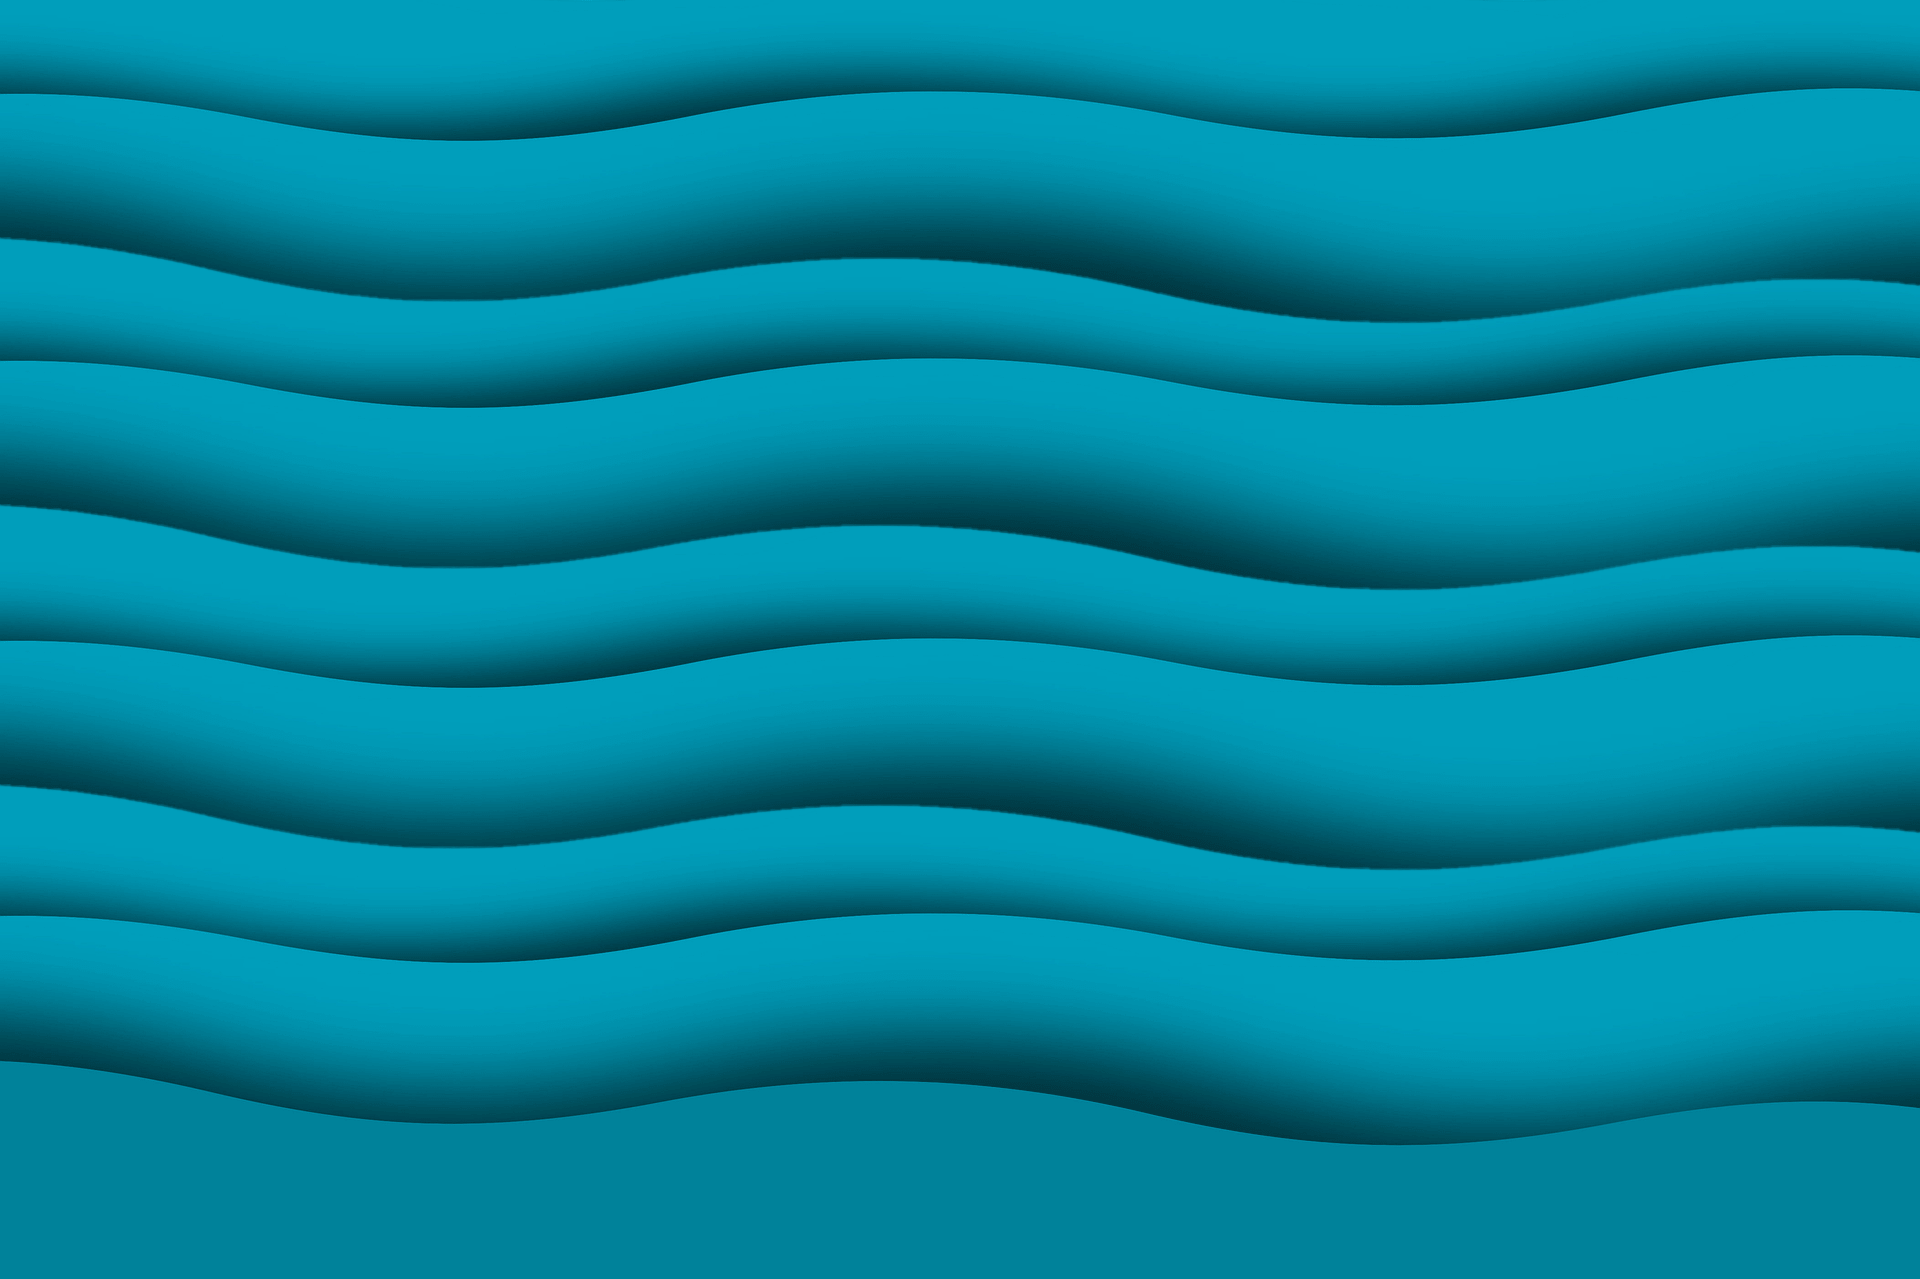
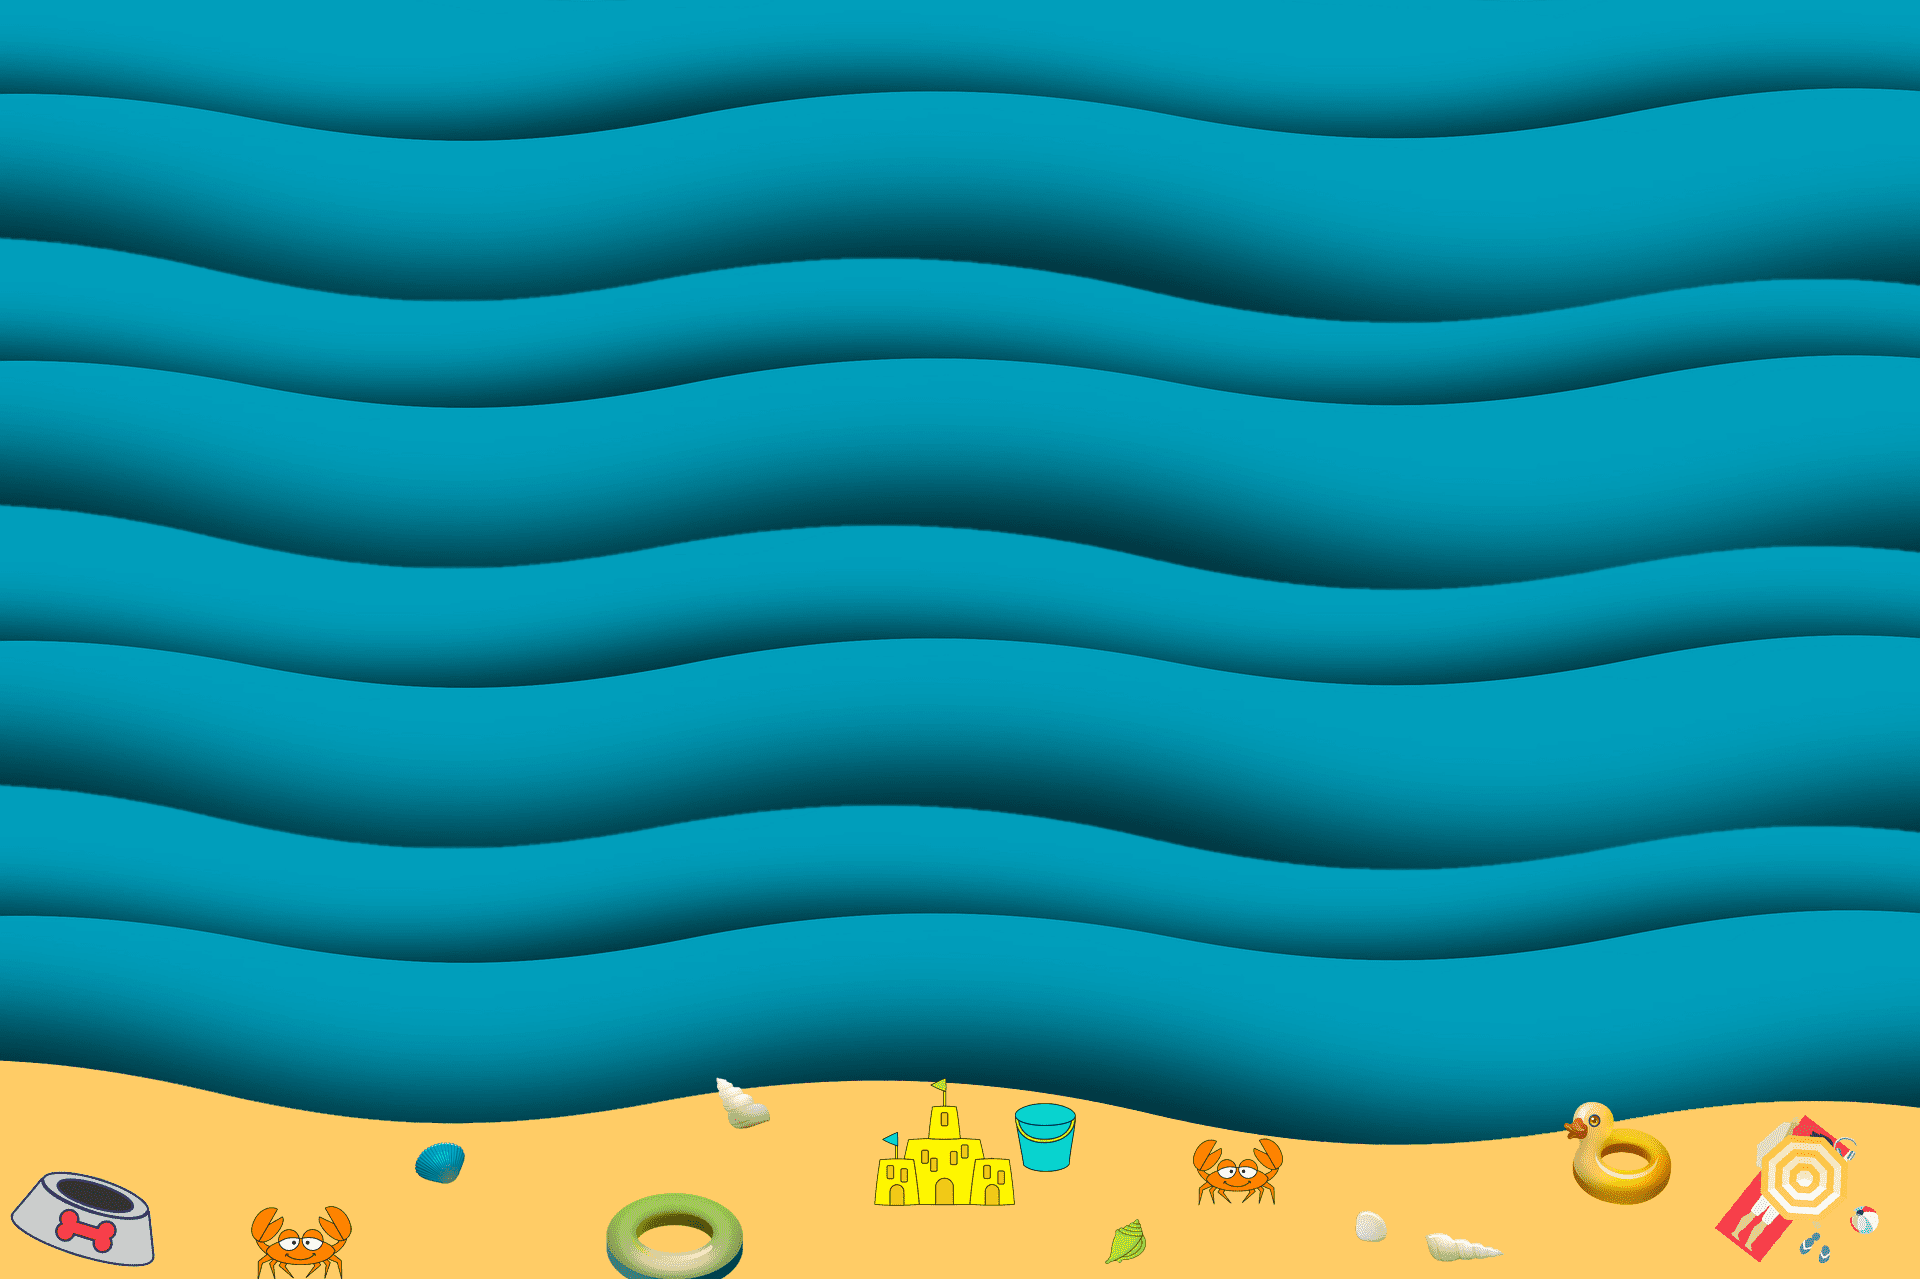
changed bg, bigSeal img and created an area just for seals

Changed region(s): [[0.0, 0.8233, 1.0, 1.0]]

diff --git a/classes/game.js b/classes/game.js
@@ -7,12 +7,14 @@ class Game {
     this.bg = new Image();
     this.bg.src = "./images/ocean.png";
     this.dog = new Dog();
-    this.stick = new Stick();
+    this.minY = 80;
+    this.maxY = 325;
+    /*this.stick = new Stick();
     this.seal = new Seal();
-    //this.bigSeal = new BigSeal ();
+    this.bigSeal = new BigSeal();*/
     this.sticksArray = [];
     this.sealsArray = [];
-    //this.bigSealsArray = [];
+    this.bigSealsArray = [];
     this.isGameOn = true;    
   }
 
@@ -25,39 +27,33 @@ class Game {
 */
 // sticks
 createSticks = () => {
-    if (!this.sticksArray.length || this.sticksArray[this.sticksArray.length -1].x < canvas.width / 1.5) {
-        let randomStickY = Math.floor(Math.random() * (canvas.height -40));
+    if (!this.sticksArray.length || this.sticksArray[this.sticksArray.length -1].x < canvas.width / 1.2) {
+        let randomStickY = Math.floor(Math.random() * (canvas.height -120));
         let stick = new Stick (randomStickY);
         this.sticksArray.push(stick);
     };
 }
 
-/* 3. creating the array of seals for sealAppearance
-=> there should be more than 2 or 3 seals in the canvas at the same time
-=> next should start when the previous one has arrived at 1/4 of the canvas
-=> appearence definitely needs to be randomly in the height
-=> to make the game more difficult for the player the seals should be bigger and appear faster/more often?
-*/
+// 3. creating the array of seals 
 
-// seals
 createSeals = () => {
     if (!this.sealsArray.length || this.sealsArray[this.sealsArray.length -1].x < canvas.width / 1.4) {
-    let randomSealY = Math.floor(Math.random() * (canvas.height -60))
+    let randomSealY = Math.floor(Math.random() * (this.maxY - this.minY + 1) + this.minY);
     let seal = new Seal (randomSealY);
     this.sealsArray.push(seal);
     }
 };
 
-/*
+
 // creating the bigSeals
 createBigSeals = () => {
-    if (!this.bigSealsArray.length || this.bigSealsArray[this.bigSealsArray.lenght -1].x < canvas.width 1.6) {
-        let randomBigSealY = Math.floor(Math.random() * (canvas.height -80))
-        let bigSeal = new BigSeal (randomBigSealY);
-        this.bigSealsArray.push(bigSeal);
+    if (!this.bigSealsArray.length || this.bigSealsArray[this.bigSealsArray.length -1].x < canvas.width / 4) {
+    //let randomBigSealY = Math.floor(Math.random())
+    let bigSeal = new BigSeal //(randomBigSealY);
+    this.bigSealsArray.push(bigSeal);
     }
 }
-*/
+
 // 4. game loop fct
 
   gameLoop = () => {
@@ -69,6 +65,7 @@ createBigSeals = () => {
 => elements: dog, sticks, seals
 */
     this.dog.dogWaterMovementDeepSea();
+
     this.createSticks();
     this.sticksArray.forEach(eachStick => {
         eachStick.stickMovement()
@@ -79,12 +76,10 @@ createBigSeals = () => {
         eachSeal.sealMovement()
     });
 
-    /*
     this.createBigSeals();
     this.bigSealsArray.forEach(eachBigSeal => {
         eachBigSeal.bigSealMovement()
     });
-    */
     
 //=> other things to consider: 
 /*- here to implement the dogStickCollision to get the stickScore*/
@@ -114,18 +109,23 @@ createBigSeals = () => {
         canvas.style.display = "none";
         gameoverScreen.style.display = "flex";
         stickScore.style.display = "flex"; //change this to "none"
-        //finalScore.style.display = "flex";
+        finalScore.style.display = "flex"; //change this fo "flex"
         dogLife.style.display = "none";
         }
     });
 
-/*
+// 1 collision between dog & bigSeal to end the game
     this.bigSealsArray.forEach((eachBigSeal, index) => {
         if (this.dog.dogBigSealCollision(eachBigSeal)) {
         this.bigSealsArray.splice (index, 1);
+        this.isGameOn = false;
+        canvas.style.display = "none";
+        gameoverScreen.style.display = "flex";
+        stickScore.style.display = "flex"; //change this to "none"
+        finalScore.style.display = "flex"; //change this fo "flex"
+        dogLife.style.display = "none";
         }
-    }
-    */
+    });
 
 /*
 - removing canvas when game stopped
@@ -135,15 +135,17 @@ createBigSeals = () => {
     => bg img, dog, sticks, seals & score (sticks and seals)?
    */
     ctx.drawImage(this.bg, 0, 0, canvas.width, canvas.height);
+     
+    this.sealsArray.forEach(eachSeal => {
+        eachSeal.drawSeal()
+    });
 
     this.sticksArray.forEach(eachStick => {
         eachStick.drawStick()
     });
     
-    this.seal.drawSeal();
-
-    this.sealsArray.forEach(eachSeal => {
-        eachSeal.drawSeal()
+    this.bigSealsArray.forEach(eachBigSeal => {
+        eachBigSeal.drawBigSeal()
     });
 
     this.dog.drawDog();

diff --git a/classes/dog.js b/classes/dog.js
@@ -7,7 +7,7 @@ class Dog {
     this.width = 80;
     this.x = 0;
     this.y = canvas.height / 2 - this.height / 2;
-    this.speedY = 1;
+    //this.speedY = 1;
     this.image = new Image();
     this.image.src = "./images/dog.png";
   }
@@ -57,7 +57,7 @@ dogSealCollision = (seal) => {
 }
 
 // dogBigSealCollision () {}
-/*
+
 dogBigSealCollision = (bigSeal) => {
   if (this.x < bigSeal.x + bigSeal.width && 
     this.x + this.width > bigSeal.x && 
@@ -65,8 +65,9 @@ dogBigSealCollision = (bigSeal) => {
     this.y + this.height > bigSeal.y) {
      // collision detected!
      return true
+  }
 }
-*/
+
 /*
 // dogStickCollision () {} for the score => just counting the collisions for the score at canvas and gameoverScreen
 */

diff --git a/classes/bigSeal.js b/classes/bigSeal.js
@@ -1,15 +1,14 @@
-/*
 // 1. create class BigSeal
 class BigSeal {
-    constructor () {
-    this.x = canvas.width;
-    this.y = canvas.height - this.height / 2;
+    constructor() {
     this.height = 80;
     this.width = 130;
-    this.speed = 2.5;
-    this.image = New Image ();
-    this.image.src = "./images/bigSeal.png" 
-    }
+    this.x = canvas.width;
+    this.y = this.height / 8;
+    this.speedX = 2.5;
+    this.image = new Image();
+    this.image.src = "./images/bigSeal.png";
+    };
 
 // 2. draw BigSeal
 
@@ -19,12 +18,7 @@ drawBigSeal = () => {
 
 // 3. movement of BigSeal
 
-  bigSealMovement = () => {
+bigSealMovement = () => {
     this.x -= this.speedX;
   };
-
 }
-*/
-
-
-

diff --git a/main.js b/main.js
@@ -75,8 +75,10 @@ restartButton.addEventListener("click", () => {
     canvas.style.display = "block";
     gameObj = new Game ();
     // set scores to 0 & 3
+    finalScore.style.display = "none";
     stickScoreSpan.innerText = 0; 
     dogLifeSpan.innerText = 3;
+    stickScore.style.display = "flex"
     dogLife.style.display = "flex"
     gameObj.gameLoop ()
 })

diff --git a/classes/seal.js b/classes/seal.js
@@ -3,10 +3,10 @@ X axis (because of the horizontal Movement), the img size and the img src
 */
 class Seal {
   constructor(yPos) {
-    this.x = canvas.width;
-    this.y = yPos;
     this.height = 60;
     this.width = 110;
+    this.x = canvas.width;
+    this.y = yPos;
     this.speedX = 2;
     this.image = new Image();
     this.image.src = "./images/seal.png";

diff --git a/index.html b/index.html
@@ -60,6 +60,7 @@
     <script src="./classes/dog.js"></script>
     <script src="./classes/stick.js"></script>
     <script src="./classes/seal.js"></script>
+    <script src="./classes/bigSeal.js"></script>
 </body>
 
 </html>
